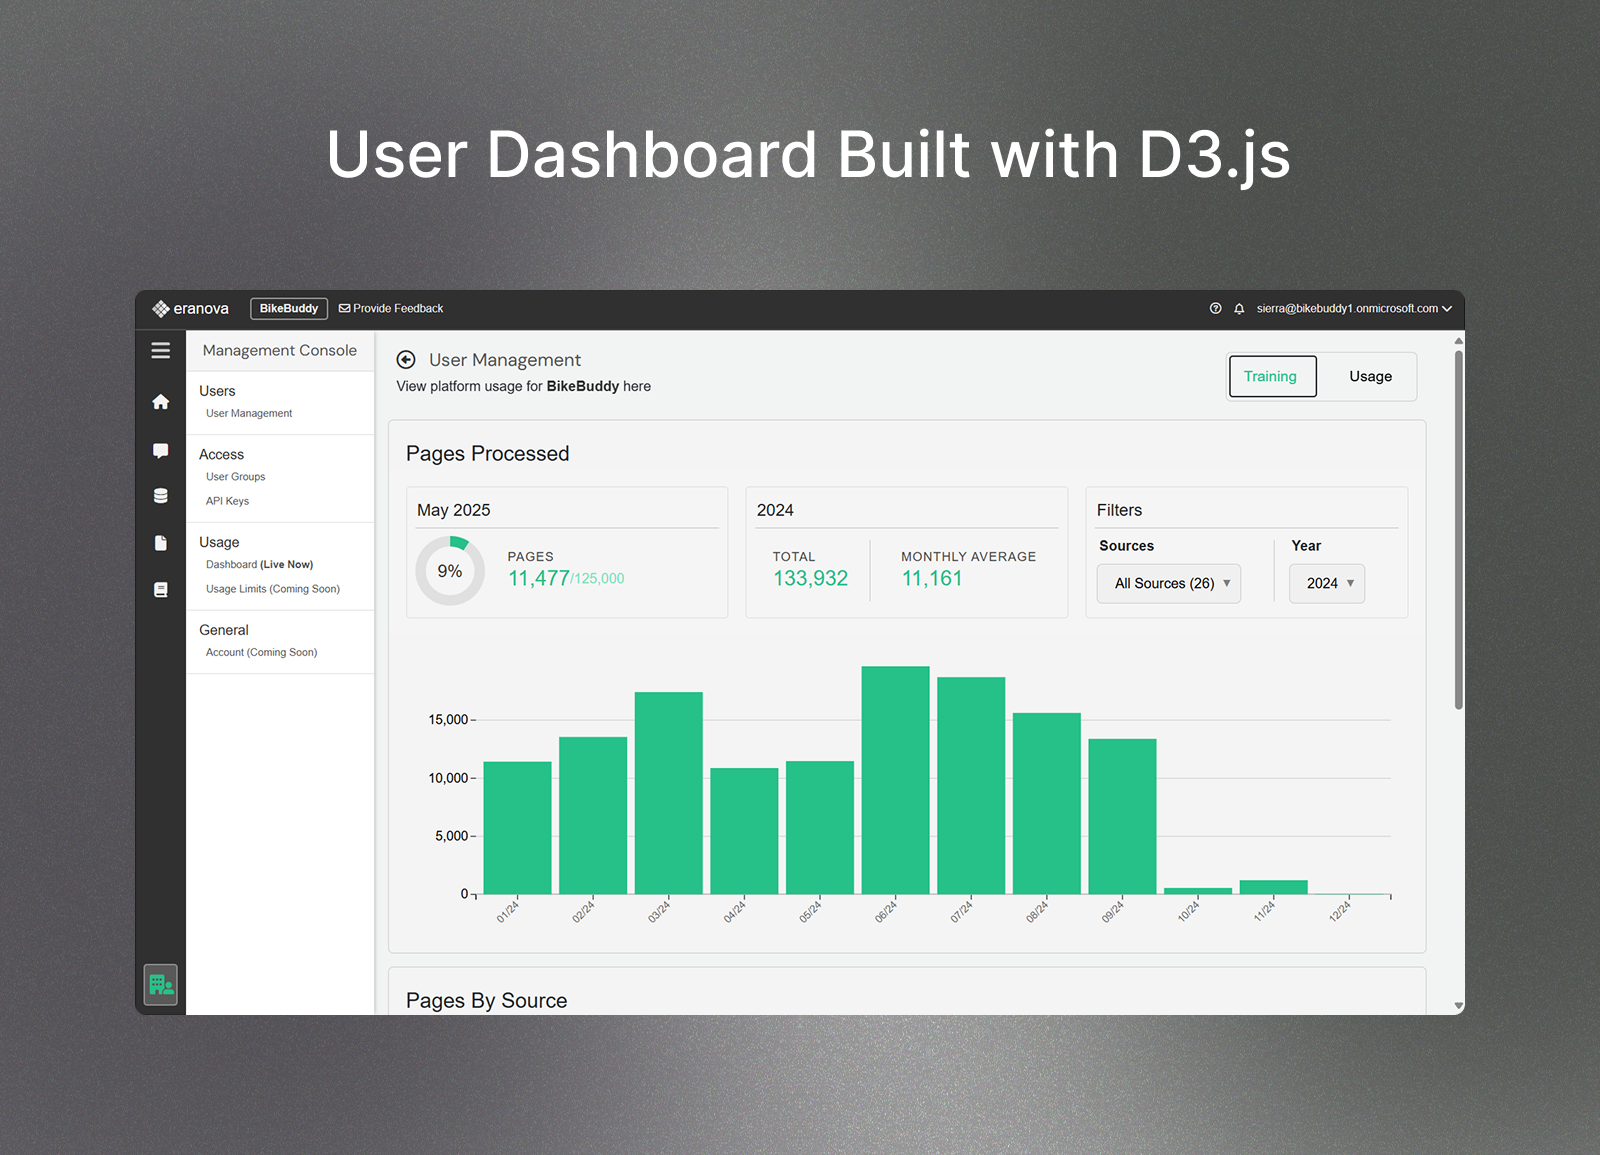
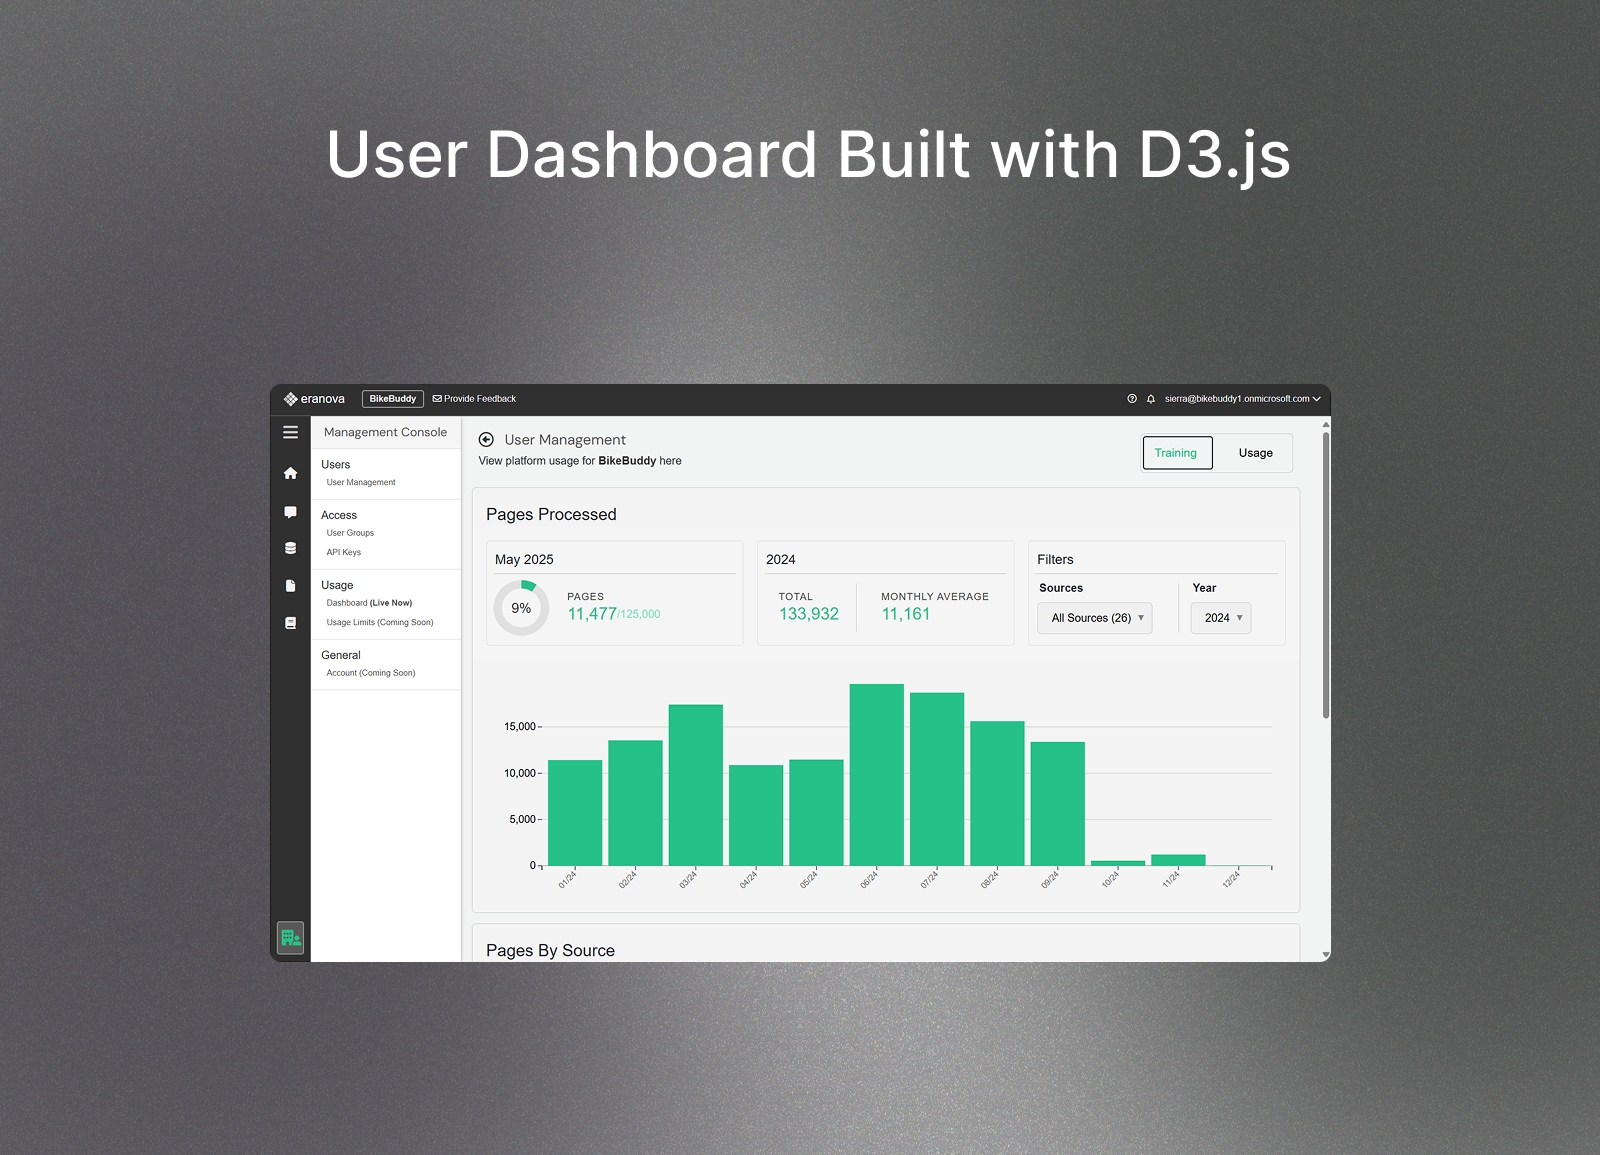
updates

Changed region(s): [[0.0625, 0.2494, 0.9375, 0.9039], [0.5625, 0.4364, 0.7812, 0.561], [0.4688, 0.4364, 0.5312, 0.5299]]

diff --git a/projects/eranova-application/index.html b/projects/eranova-application/index.html
@@ -119,12 +119,7 @@
                 A long-term redesign and refactor of the core Eranova platform — transforming a functional but fragmented internal AI tool into a
                 clean, usable product with scalable UI patterns, responsive layouts, and a unified visual system.
               </div>
-              <a class="project-page-link fade-slide-up-s" href="https://www.pondurance.com/"
-                >See it live on a client website
-                <svg class="arrow-right-button" width="138" height="137" viewBox="0 0 138 137" fill="none" xmlns="http://www.w3.org/2000/svg">
-                  <path d="M137.5 128.5H114.5V39.2637L17.1318 136.632L0.868164 120.368L98.2363 23H9V0H137.5V128.5Z" fill="currentColor" />
-                </svg>
-              </a>
+             
             </div>
             <div class="project-details">
               <div class="project-details-row fade-slide-up-s">

diff --git a/index.html b/index.html
@@ -176,7 +176,7 @@
         </div>
 
         <div class="sp-row">
-          <a href="/projects/eranova-app" class="sp-card-small" data-cursor-hover>
+          <a href="/projects/eranova-application" class="sp-card-small" data-cursor-hover>
             <div class="sp-card-image-container image-reveal-wrapper" data-delay="0.1s">
               <img class="sp-card-image image-reveal" src="assets/images/eranova_app/EN_APP_img_3.png" alt="" />
             </div>
